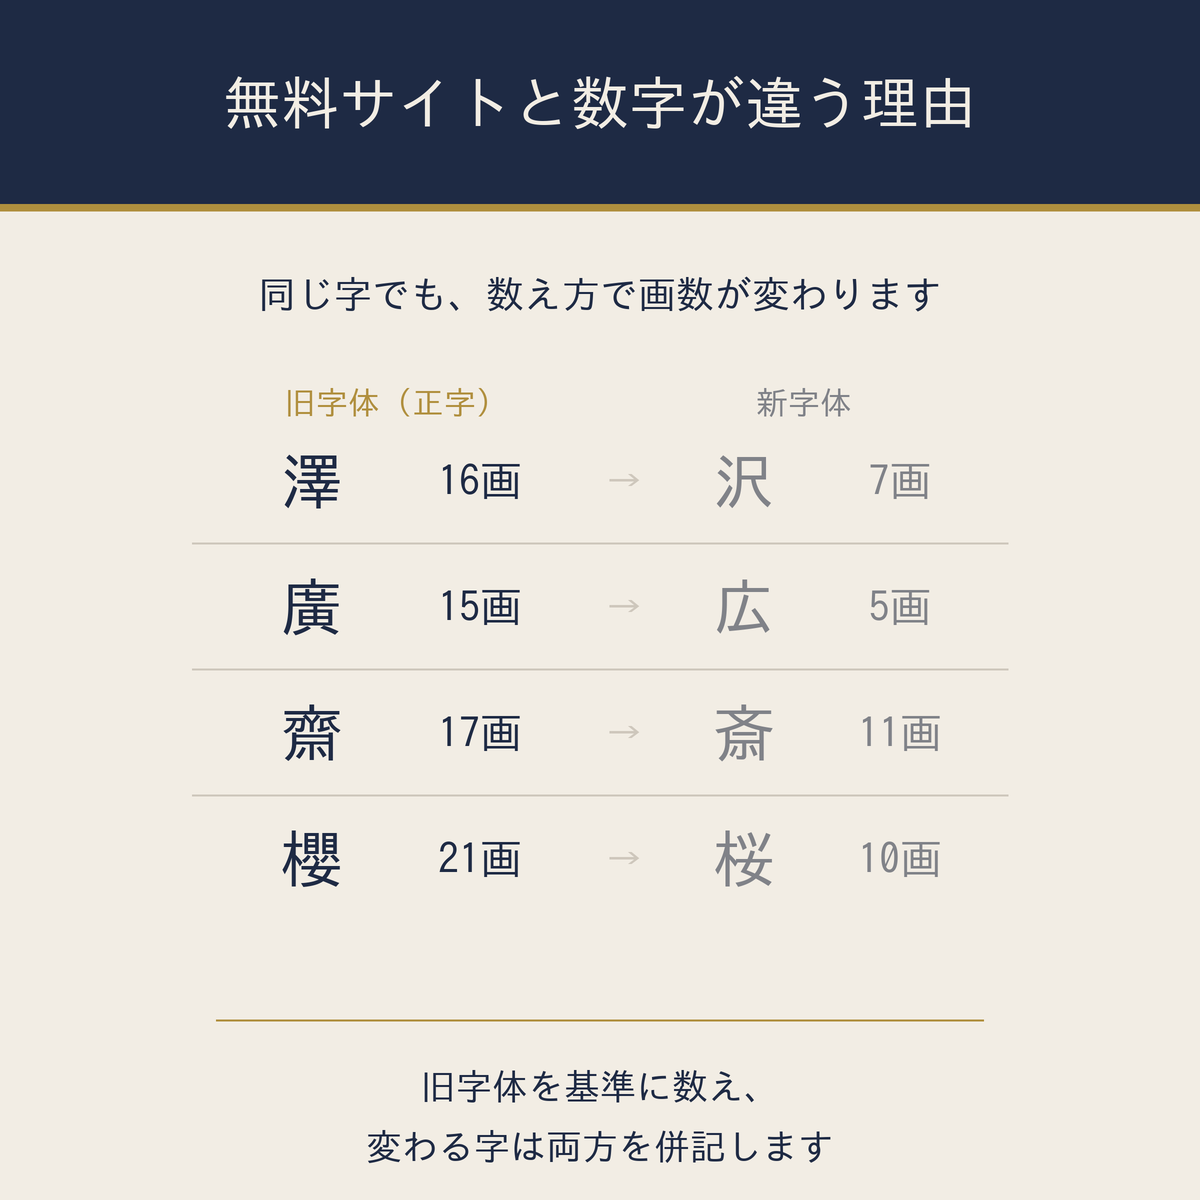
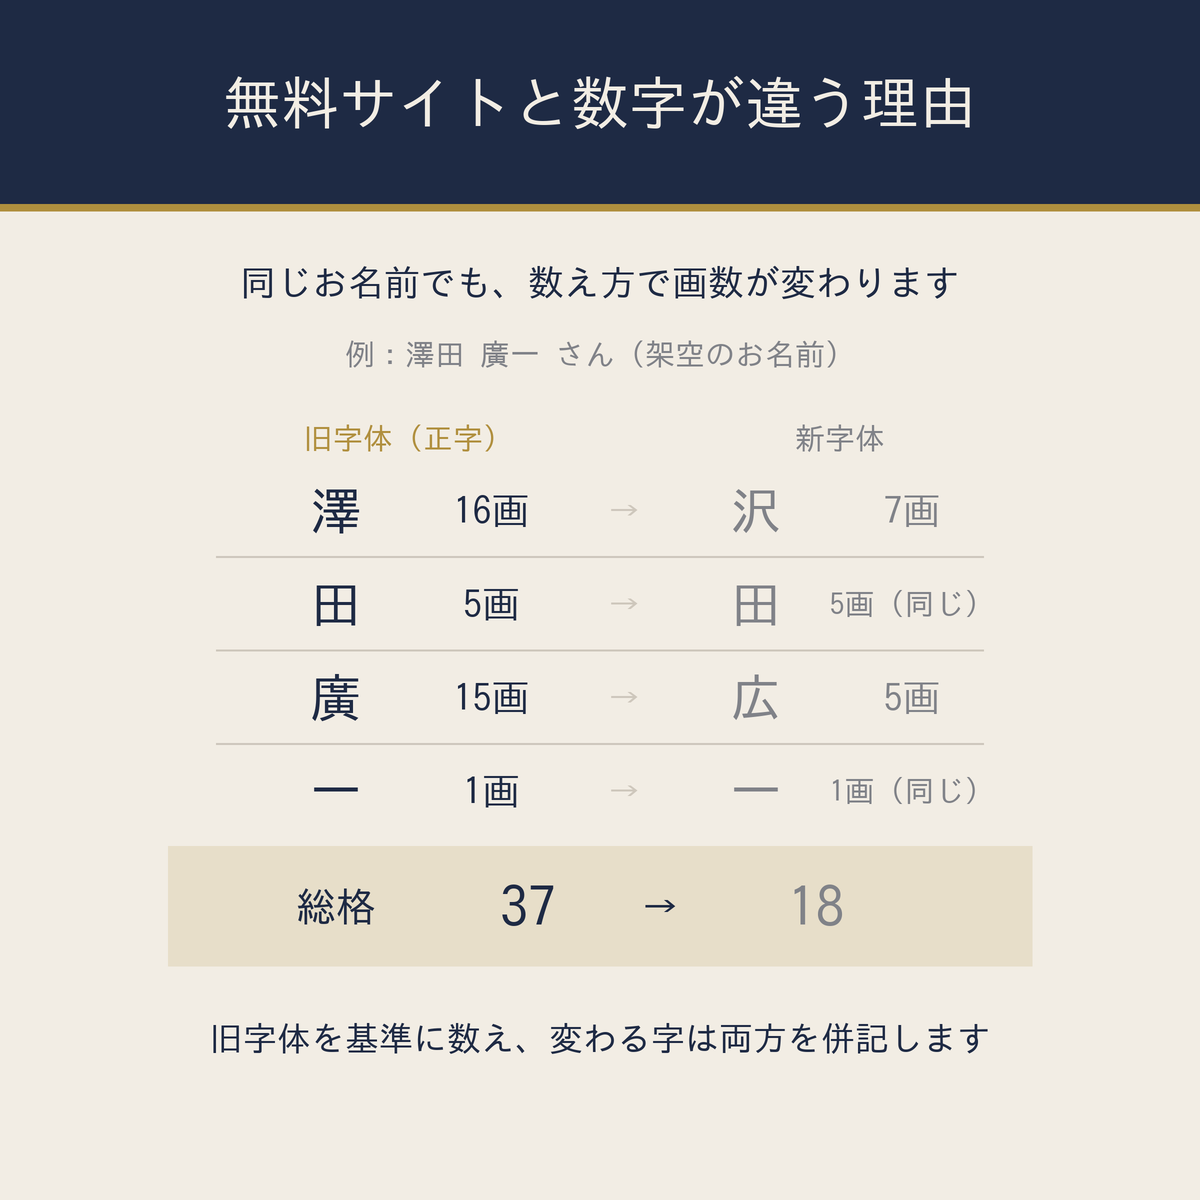
出品画像を修正（名前の統一と下余白）
- 3枚目を2枚目と同じ「澤田 廣一」で組み直した
  無関係な4組を並べていたため2枚が別々の話に見えていた
  総格 37→18 まで見せて続き物にした。検算済み
- 4枚目・5枚目の下余白を広げた
- 出品ページ確定版に修正内容を追記
- 秘書の日次ログに受付と報告を追記

Claude-Session: https://claude.ai/code/session_01TAxZ8fEUyf6X3jF3DoYgaM

diff --git a/departments/coconala/2026-08-09_出品ページ_確定版.md b/departments/coconala/2026-08-09_出品ページ_確定版.md
@@ -368,17 +368,29 @@
 **外格は「総格−人格」と「姓の頭＋名の末」の両方で計算し、一致することを確認済み。**
 1案目の生成画像で五格の計算が成立していなかった前例があるため、今回は全数値を検算した。
 
-### 3枚目に使った画数
+### 3枚目に使った数値（2枚目と同じお名前で統一）
 
-| 旧字体 | 画数 | 新字体 | 画数 |
-|---|---|---|---|
-| 澤 | 16 | 沢 | 7 |
-| 廣 | 15 | 広 | 5 |
-| 齋 | 17 | 斎 | 11 |
-| 櫻 | 21 | 桜 | 10 |
+**当初は澤・廣・齋・櫻という無関係な4組を並べていたが、2枚目の例（澤田 廣一）と
+名前が揃わず、2枚が別々の話に見えていたため作り直した。**
+同じお名前の4文字だけで構成し、総格が 37 → 18 に変わるところまで見せる形にした。
+これで2枚目と3枚目が続き物になる。
 
-**「邊／辺」は意図的に外した。** 邊は辶（辵）の数え方で18画とも19画とも取れ、
-流派によって割れる。**割れる字を差別化の説明に使うと、そこを突かれる。**
+| 字 | 旧字体 | 新字体 |
+|---|---|---|
+| 澤／沢 | 16画 | 7画 |
+| 田 | 5画 | 5画（変わらない） |
+| 廣／広 | 15画 | 5画 |
+| 一 | 1画 | 1画（変わらない） |
+| **総格** | **37** | **18** |
+
+検算：16+5+15+1 = 37 ／ 7+5+5+1 = 18。**2枚目の総格と一致。**
+
+**変わらない字（田・一）も隠さず出している。** すべての字が変わるわけではないことが
+伝わるほうが、説明として正確なため。
+
+**「齋／斎」「櫻／桜」「邊／辺」は使っていない。**
+特に邊は辶（辵）の数え方で18画とも19画とも取れ、流派によって割れる。
+**割れる字を差別化の説明に使うと、そこを突かれる。**
 
 ### 画像に入れなかったもの
 
@@ -392,3 +404,17 @@
 ## 追記ログ（続き）
 
 - [2026-08-09] 出品画像2〜5を作成。1枚目と配色を統一。2枚目・3枚目の画数はすべて検算し、外格は2通りの式で一致を確認した。流派で割れる「邊／辺」は意図的に除外。鑑定文そのものの見本は、教義の作文になるため入れていない。
+
+---
+
+## 12. 画像の修正（担当者フィードバック反映）
+
+| 指摘 | 対応 |
+|---|---|
+| 2枚目と3枚目で例の名前が揃っていない | **3枚目を作り直した。** 澤・廣・齋・櫻という無関係な4組をやめ、2枚目と同じ「澤田 廣一」の4文字だけで構成。総格 37 → 18 まで見せ、2枚を続き物にした |
+| 4枚目（お渡しするもの）の下の文字が見切れる | **4枚目・5枚目とも下余白を広げた。** 開始位置を上げ、行間を詰めて、下端に約15%の余白を確保 |
+| 3枚目（鑑定の流れ）はそのまま使う | 文言は変更せず、下余白の調整のみ |
+
+## 追記ログ（続き）
+
+- [2026-08-09] 担当者の指摘を反映。3枚目を2枚目と同じ「澤田 廣一」で組み直し、総格37→18を明示して2枚を続き物にした。4枚目・5枚目は下余白を広げた。

diff --git a/secretary/2026-08-09.md b/secretary/2026-08-09.md
@@ -336,3 +336,17 @@
 - **3枚目で「邊／辺」は意図的に外した。** 辶の数え方で18画とも19画とも取れ流派によって割れる。**割れる字を差別化の説明に使うと、そこを突かれる**
 - **鑑定文そのものの見本は入れていない。** 「人格20は◯◯の傾向」といった読み取りの文言はこちらが姓名判断の教義を作文することになり、担当者の実際の解釈と食い違う恐れがあるため。2枚目は「どう数えたか」の提示に留め、検証可能な部分だけで構成した
 - 鑑定文の見本を入れたい場合は、担当者が実際の文言を書けば追加できる旨を伝えた
+
+## 受付（19件目）
+
+- 指摘内容：① 鑑定書の見本と旧字体の図で例の名前が揃っていない ② お渡しするものの下の文字が見切れる ③ 鑑定の流れはそのまま使う
+- 対応：画像を修正し、`2026-08-09_出品ページ_確定版.md` に「12. 画像の修正」として追記
+
+## 報告（19件目）
+
+- **指摘①（名前が揃っていない）→ 3枚目を作り直した。** 澤・廣・齋・櫻という無関係な4組を並べていたため、2枚目の例（澤田 廣一）と話が繋がっていなかった。**同じお名前の4文字だけで構成し、総格が 37 → 18 に変わるところまで見せる形にした。** これで2枚目と3枚目が続き物になる
+  - 検算：16+5+15+1 = 37 ／ 7+5+5+1 = 18。2枚目の総格と一致
+  - 変わらない字（田・一）も隠さず表示。すべての字が変わるわけではないことが伝わるほうが説明として正確なため
+  - 齋／斎、櫻／桜は不使用に。邊／辺はもともと流派で割れるため除外済み
+- **指摘②（見切れ）→ 4枚目・5枚目とも下余白を広げた。** 開始位置を上げ、行間を詰めて下端に約15%の余白を確保
+- **指摘③ → 鑑定の流れは文言を変更せず、下余白の調整のみ**
